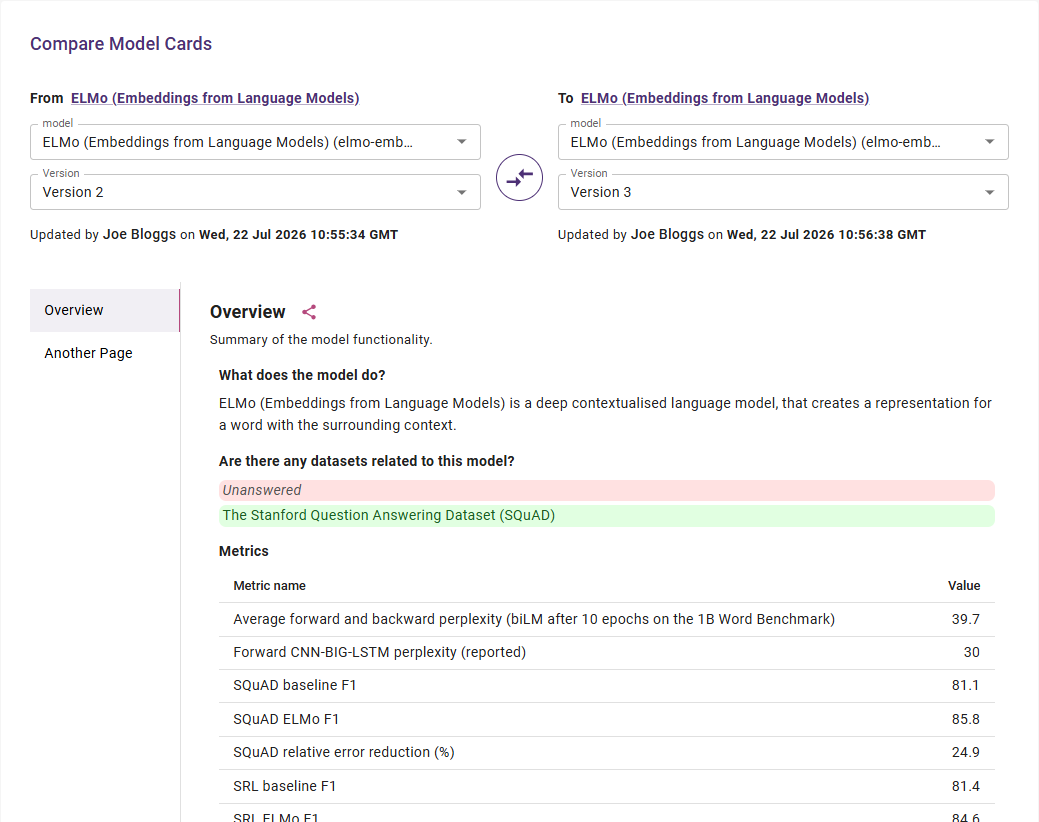
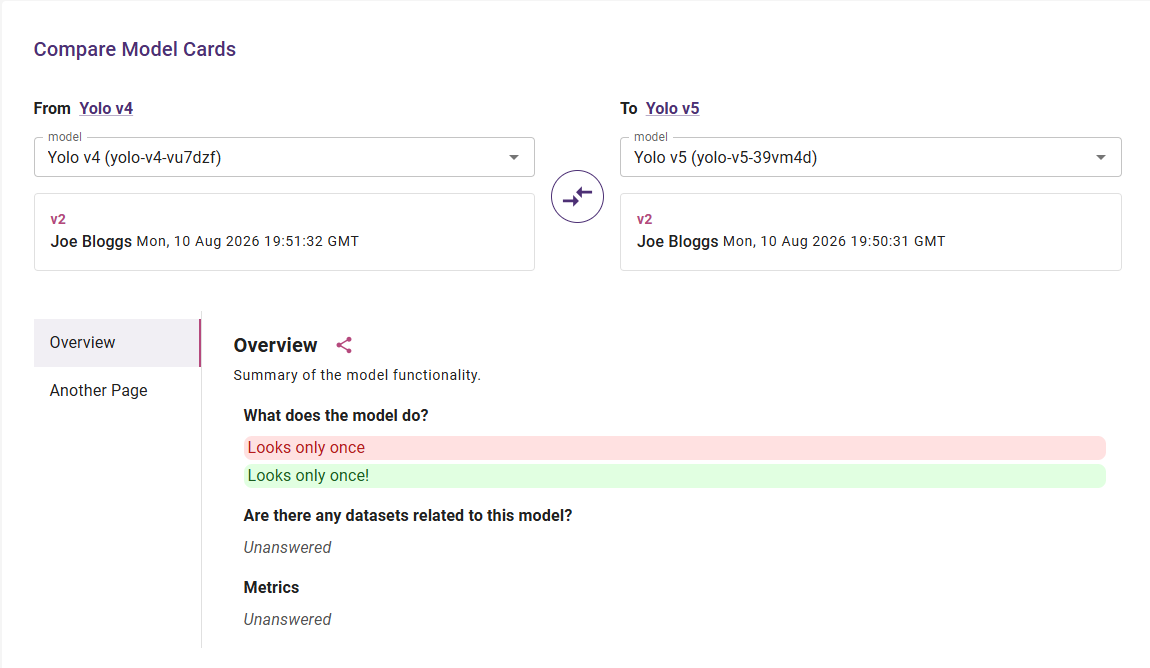
Make mirrored cards source of truth for compare

diff --git a/frontend/src/entry/EntryCardCompare.tsx b/frontend/src/entry/EntryCardCompare.tsx
@@ -20,6 +20,7 @@ import Loading from 'src/common/Loading'
 import EntryCardSnapshotSelector, {
   buildSnapshots,
   EntryCardSnapshot,
+  EntryCardSnapshotStream,
 } from 'src/entry/overview/EntryCardSnapshotSelector'
 import MultipleErrorWrapper from 'src/errors/MultipleErrorWrapper'
 import JsonSchemaForm from 'src/Form/JsonSchemaForm'
@@ -138,6 +139,20 @@ export default function EntryCardCompare({
 
   const hasLocalPair = !!fromLocalCard && !!toLocalCard
   const hasMirroredPair = !!fromMirroredCard && !!toMirroredCard
+  const fromIsMirroredModel = fromEntry?.kind === EntryKind.MIRRORED_MODEL
+  const toIsMirroredModel = toEntry?.kind === EntryKind.MIRRORED_MODEL
+  const isMixedModelComparison =
+    !!fromEntryId &&
+    !!toEntryId &&
+    fromIsMirroredModel !== toIsMirroredModel &&
+    (fromIsMirroredModel || toIsMirroredModel)
+
+  const effectiveFromCard = isMixedModelComparison
+    ? fromIsMirroredModel
+      ? fromMirroredCard
+      : fromLocalCard
+    : undefined
+  const effectiveToCard = isMixedModelComparison ? (toIsMirroredModel ? toMirroredCard : toLocalCard) : undefined
 
   const hasFromCard = !!fromLocalCard || !!fromMirroredCard
   const hasToCard = !!toLocalCard || !!toMirroredCard
@@ -145,13 +160,21 @@ export default function EntryCardCompare({
 
   const previewCard = fromLocalCard ?? fromMirroredCard
 
+  const mixedSchemaId =
+    effectiveFromCard && effectiveToCard && effectiveFromCard.schemaId === effectiveToCard.schemaId
+      ? effectiveToCard.schemaId
+      : undefined
   const localSchemaId =
-    hasLocalPair && fromLocalCard.schemaId === toLocalCard.schemaId ? toLocalCard.schemaId : undefined
+    !isMixedModelComparison && hasLocalPair && fromLocalCard.schemaId === toLocalCard.schemaId
+      ? toLocalCard.schemaId
+      : undefined
   const mirroredSchemaId =
-    hasMirroredPair && fromMirroredCard.schemaId === toMirroredCard.schemaId ? toMirroredCard.schemaId : undefined
+    !isMixedModelComparison && hasMirroredPair && fromMirroredCard.schemaId === toMirroredCard.schemaId
+      ? toMirroredCard.schemaId
+      : undefined
 
   const singleSideSchemaId = fromOnly ? previewCard?.schemaId : undefined
-  const chosenSchemaId = localSchemaId ?? mirroredSchemaId ?? singleSideSchemaId
+  const chosenSchemaId = mixedSchemaId ?? localSchemaId ?? mirroredSchemaId ?? singleSideSchemaId
 
   const {
     schema: chosenSchema,
@@ -159,8 +182,21 @@ export default function EntryCardCompare({
     isSchemaError: isSchemaError,
   } = useGetSchema(chosenSchemaId ?? '')
 
-  const fromSnapshots = useMemo(() => buildSnapshots(fromRevisions), [fromRevisions])
-  const toSnapshots = useMemo(() => buildSnapshots(toRevisions), [toRevisions])
+  const fromSnapshotStream: EntryCardSnapshotStream | undefined = isMixedModelComparison
+    ? fromIsMirroredModel
+      ? 'mirrored'
+      : 'local'
+    : undefined
+  const toSnapshotStream: EntryCardSnapshotStream | undefined = isMixedModelComparison
+    ? toIsMirroredModel
+      ? 'mirrored'
+      : 'local'
+    : undefined
+  const fromSnapshots = useMemo(
+    () => buildSnapshots(fromRevisions, fromSnapshotStream),
+    [fromRevisions, fromSnapshotStream],
+  )
+  const toSnapshots = useMemo(() => buildSnapshots(toRevisions, toSnapshotStream), [toRevisions, toSnapshotStream])
 
   const useMirroredLayout = hasMirroredPair
 
@@ -174,15 +210,24 @@ export default function EntryCardCompare({
     const fromMirroredState = fromMirroredCard?.metadata ?? {}
     const steps = fromOnly
       ? getStepsFromSchema(chosenSchema, {}, ['properties.contacts'], fromState, fromMirroredState)
-      : getStepsFromSchema(
-          chosenSchema,
-          {},
-          ['properties.contacts'],
-          toState,
-          toMirroredState,
-          fromState,
-          fromMirroredState,
-        )
+      : isMixedModelComparison
+        ? getStepsFromSchema(
+            chosenSchema,
+            {},
+            ['properties.contacts'],
+            effectiveToCard?.metadata ?? {},
+            {},
+            effectiveFromCard?.metadata ?? {},
+          )
+        : getStepsFromSchema(
+            chosenSchema,
+            {},
+            ['properties.contacts'],
+            toState,
+            toMirroredState,
+            fromState,
+            fromMirroredState,
+          )
     for (const step of steps) {
       step.steps = steps
     }
@@ -192,6 +237,9 @@ export default function EntryCardCompare({
     fromLocalCard?.metadata,
     fromMirroredCard?.metadata,
     fromOnly,
+    isMixedModelComparison,
+    effectiveFromCard?.metadata,
+    effectiveToCard?.metadata,
     toLocalCard?.metadata,
     toMirroredCard?.metadata,
   ])
@@ -251,7 +299,48 @@ export default function EntryCardCompare({
   }, [toEntry, toEntryId])
 
   useEffect(() => {
-    if (fromVersion !== undefined || fromMirroredVersion !== undefined) {
+    if (!isMixedModelComparison) {
+      return
+    }
+
+    const hasIrrelevantFromVersion =
+      (fromSnapshotStream === 'local' && fromMirroredVersion !== undefined) ||
+      (fromSnapshotStream === 'mirrored' && fromVersion !== undefined)
+    const hasIrrelevantToVersion =
+      (toSnapshotStream === 'local' && toMirroredVersion !== undefined) ||
+      (toSnapshotStream === 'mirrored' && toVersion !== undefined)
+
+    if (!hasIrrelevantFromVersion && !hasIrrelevantToVersion) {
+      return
+    }
+
+    updateQuery(router, {
+      ...(hasIrrelevantFromVersion && {
+        [fromSnapshotStream === 'local' ? 'fromMirroredVersion' : 'fromVersion']: undefined,
+      }),
+      ...(hasIrrelevantToVersion && {
+        [toSnapshotStream === 'local' ? 'toMirroredVersion' : 'toVersion']: undefined,
+      }),
+    })
+  }, [
+    fromMirroredVersion,
+    fromSnapshotStream,
+    fromVersion,
+    isMixedModelComparison,
+    router,
+    toMirroredVersion,
+    toSnapshotStream,
+    toVersion,
+  ])
+
+  useEffect(() => {
+    const selectedVersion =
+      fromSnapshotStream === 'mirrored'
+        ? fromMirroredVersion
+        : fromSnapshotStream === 'local'
+          ? fromVersion
+          : (fromVersion ?? fromMirroredVersion)
+    if (selectedVersion !== undefined) {
       defaultedFromEntryId.current = undefined
       return
     }
@@ -260,10 +349,24 @@ export default function EntryCardCompare({
       defaultedFromEntryId.current = fromEntryId
       setSnapshot(QueryDiffSide.From, latestSnapshot)
     }
-  }, [fromEntryId, fromMirroredVersion, fromSnapshots, fromVersion, isFromRevisionsLoading, setSnapshot])
+  }, [
+    fromEntryId,
+    fromMirroredVersion,
+    fromSnapshots,
+    fromSnapshotStream,
+    fromVersion,
+    isFromRevisionsLoading,
+    setSnapshot,
+  ])
 
   useEffect(() => {
-    if (toVersion !== undefined || toMirroredVersion !== undefined) {
+    const selectedVersion =
+      toSnapshotStream === 'mirrored'
+        ? toMirroredVersion
+        : toSnapshotStream === 'local'
+          ? toVersion
+          : (toVersion ?? toMirroredVersion)
+    if (selectedVersion !== undefined) {
       defaultedToEntryId.current = undefined
       return
     }
@@ -272,7 +375,7 @@ export default function EntryCardCompare({
       defaultedToEntryId.current = toEntryId
       setSnapshot(QueryDiffSide.To, latestSnapshot)
     }
-  }, [isToRevisionsLoading, setSnapshot, toEntryId, toMirroredVersion, toSnapshots, toVersion])
+  }, [isToRevisionsLoading, setSnapshot, toEntryId, toMirroredVersion, toSnapshots, toSnapshotStream, toVersion])
 
   useEffect(() => {
     setSplitSchema(initialSplit)
@@ -328,9 +431,15 @@ export default function EntryCardCompare({
   const hasAnyVersionFrom = !!fromEntryId && (fromVersion !== undefined || fromMirroredVersion !== undefined)
   const hasAnyVersionTo = !!toEntryId && (toVersion !== undefined || toMirroredVersion !== undefined)
 
-  const localSchemasDiverge = hasLocalPair && fromLocalCard.schemaId !== toLocalCard.schemaId
-  const mirroredSchemasDiverge = hasMirroredPair && fromMirroredCard.schemaId !== toMirroredCard.schemaId
-  const schemasDiverge = localSchemasDiverge || mirroredSchemasDiverge
+  const mixedSchemasDiverge =
+    isMixedModelComparison &&
+    !!effectiveFromCard &&
+    !!effectiveToCard &&
+    effectiveFromCard.schemaId !== effectiveToCard.schemaId
+  const localSchemasDiverge = !isMixedModelComparison && hasLocalPair && fromLocalCard.schemaId !== toLocalCard.schemaId
+  const mirroredSchemasDiverge =
+    !isMixedModelComparison && hasMirroredPair && fromMirroredCard.schemaId !== toMirroredCard.schemaId
+  const schemasDiverge = mixedSchemasDiverge || localSchemasDiverge || mirroredSchemasDiverge
 
   const canRenderForm = !loading && !!chosenSchema && splitSchema.steps.length > 0 && !schemasDiverge
 
@@ -484,7 +593,7 @@ export default function EntryCardCompare({
               setSplitSchema={setSplitSchema}
               canEdit={false}
               compareMode={!fromOnly}
-              mirroredModel={fromOnly ? !!fromMirroredCard : useMirroredLayout}
+              mirroredModel={fromOnly ? !!fromMirroredCard : !isMixedModelComparison && useMirroredLayout}
             />
           )}
         </Stack>

diff --git a/frontend/src/entry/overview/EntryCardSnapshotSelector.tsx b/frontend/src/entry/overview/EntryCardSnapshotSelector.tsx
@@ -39,8 +39,15 @@ type EntryCardSnapshotSelectorProps = {
   onSelect: (snapshot: EntryCardSnapshot) => void
 }
 
-export function buildSnapshots(revisions: EntryCardRevisionInterface[]): EntryCardSnapshot[] {
-  const ordered = [...revisions].sort((a, b) => new Date(a.createdAt).getTime() - new Date(b.createdAt).getTime())
+export type EntryCardSnapshotStream = 'local' | 'mirrored'
+
+export function buildSnapshots(
+  revisions: EntryCardRevisionInterface[],
+  stream?: EntryCardSnapshotStream,
+): EntryCardSnapshot[] {
+  const ordered = [...revisions]
+    .filter((revision) => stream === undefined || revision.mirrored === (stream === 'mirrored'))
+    .sort((a, b) => new Date(a.createdAt).getTime() - new Date(b.createdAt).getTime())
 
   let currentLocal: number | undefined
   let currentMirrored: number | undefined
